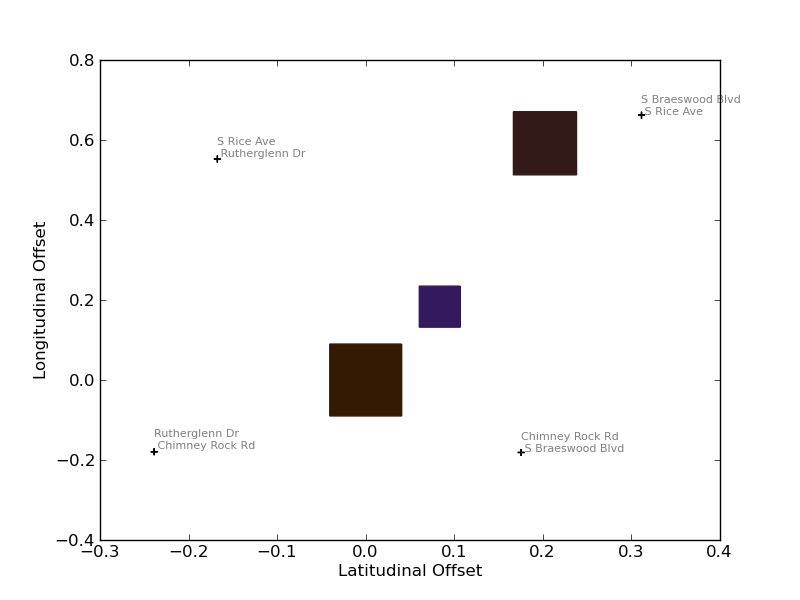
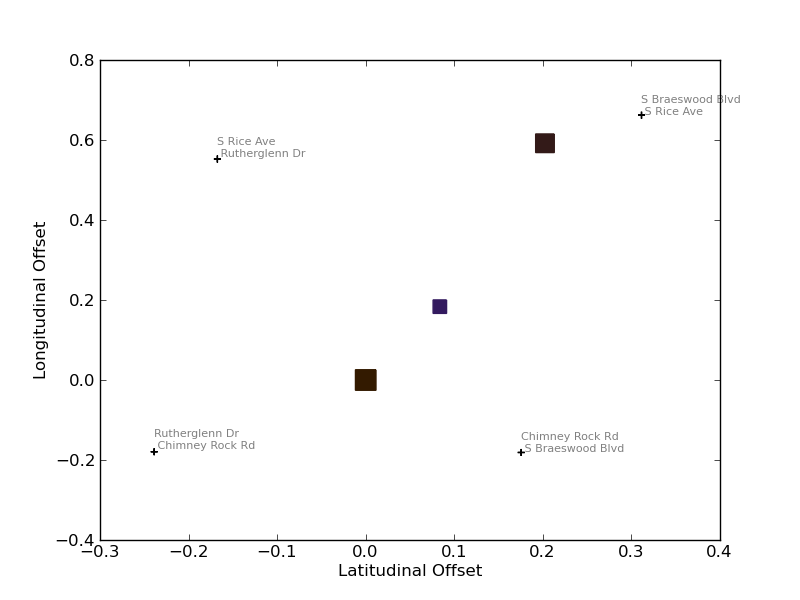
Added Histanalysis + Normalized the other 2D scatters

Changed region(s): [[0.4062, 0.57, 0.5312, 0.72], [0.625, 0.18, 0.75, 0.3], [0.5, 0.45, 0.5938, 0.57]]

diff --git a/histanalysis.py b/histanalysis.py
@@ -1,0 +1,105 @@
+from filter import Filter
+
+def analyze(filter):
+    sink = filter()
+    
+    #from mpl_toolkits.mplot3d import Axes3D
+    import matplotlib.axes, see
+    import matplotlib.pyplot as plt
+    import numpy as np
+    import random
+    from matplotlib.ticker import NullFormatter
+    
+    
+    fig = plt.figure()
+    ax=fig.add_subplot(111)
+    
+    X = []
+    Y = []
+    Z = []
+    for k in sink:
+        X += [k[0][0]]
+        Y += [k[0][1]]
+        Z += [k[1]]
+    
+    X_min = min(X)
+    X_range = max(X)-min(X)
+    X_scale = 20.0/X_range
+    
+    Y_min = min(Y)
+    Y_range = max(Y)-min(Y)
+    Y_scale = 20.0/Y_range
+    
+    Z_min = min(Y)
+    Z_range = max(Z)-min(Z)
+    Z_scale = 1.0/Z_range
+    
+    colors = []
+    for i in range(len(sink)):
+        X[i] = (X[i]-X_min)*110.83575 #* X_scale
+        Y[i] = (Y[i]-Y_min)*97.43888 #* Y_scale
+        colors.append(tuple([0.2,0.1]+[1-Z[i]/max(Z)]*1+[1]))
+    
+    z = zip(*filter.coords)
+    coords = zip( (np.array(z[0])-X_min)*110.83575, (np.array(z[1])-Y_min)*97.43888)
+
+    X = np.array(X)
+    Y = np.array(Y)
+    Z = np.array(Z)
+    
+    x,y = X,Y
+    
+    nullfmt   = NullFormatter()         # no labels
+
+    # definitions for the axes
+    left, width = 0.1, 0.65
+    bottom, height = 0.1, 0.65
+    bottom_h = left_h = left+width+0.02
+    
+    rect_scatter = [left, bottom, width, height]
+    rect_histx = [left, bottom_h, width, 0.2]
+    rect_histy = [left_h, bottom, 0.2, height]
+    
+    # start with a rectangular Figure
+    plt.figure(1, figsize=(8,8))
+    
+    axScatter = plt.axes(rect_scatter)
+    axHistx = plt.axes(rect_histx)
+    axHisty = plt.axes(rect_histy)
+    
+    # no labels
+    axHistx.xaxis.set_major_formatter(nullfmt)
+    axHisty.yaxis.set_major_formatter(nullfmt)
+    
+    # the scatter plot:
+    axScatter.scatter(x, y, marker = 's', color=colors, s = ((Z-Z_min)*Z_scale)**3*5)# color = [['r','b','y'][random.randint(0,2)] for i in range(len(sink))])
+    
+    # now determine nice limits by hand:
+    binwidth = 0.25
+    xymax = np.max( [np.max(np.fabs(x)), np.max(np.fabs(y))] )
+    lim = ( int(xymax/binwidth) + 1) * binwidth
+    
+    axScatter.set_xlim( (0, lim) )
+    axScatter.set_ylim( (0, lim) )
+    
+    bins = np.arange(-lim, lim + binwidth, binwidth)
+    axHistx.hist(x, bins=bins)
+    axHisty.hist(y, bins=bins, orientation='horizontal')
+    
+    axHistx.set_xlim( axScatter.get_xlim() )
+    axHisty.set_ylim( axScatter.get_ylim() )
+
+    
+    ax.set_xlabel('Latitudinal Offset')
+    ax.set_ylabel('Longitudinal Offset')
+    
+    return plt
+
+if __name__ == "__main__":
+    import sys
+    if len(sys.argv) < 2:
+        print "Usage: histanalysis.py <file> <street1> <street2> <street3> ..."
+        sys.exit(1)
+    plt = analyze(Filter(*sys.argv[1:]))
+    plt.savefig("results/data.hist."+(".".join(sys.argv[2:])).replace(" ","_")+".png")
+    print "0"

diff --git a/batch.py b/batch.py
@@ -42,9 +42,9 @@ addrs += [("77096.csv", "Chimney Rock Rd", "S Braeswood Blvd", "S Rice Ave", "Ru
 ]
 addrs +=  [("77081.csv","Renwick Dr","Bellaire Blvd","Chimney Rock Rd","Beechnut St"),
         ]
-addrs = [("77401.csv","Newcastle St","Bellaire Blvd","Stella Link Rd","Braeswood Blvd", "Beechnut St")]
+addrs += [("77401.csv","Newcastle St","Bellaire Blvd","Stella Link Rd","Braeswood Blvd", "Beechnut St")]
 
-addrs = [("77401.csv","W Loop Fwy","Bellaire Blvd","Newcastle St","Beechnut St")]
+addrs += [("77401.csv","W Loop Fwy","Bellaire Blvd","Newcastle St","Beechnut St")]
 
 if __name__ == "__main__":
     from see import see
@@ -64,13 +64,13 @@ if __name__ == "__main__":
             pass #Success
         else:
             print "\tAnalysis Failed"
-            #print o
             if o[1]:
                 er = ""
                 for i in o[1].split("\n"):
                     print "\t"+i
             pass #Failure
         Popen(["python", "nomarkanalysis.py"]+list(arg), stdout=PIPE, stderr = PIPE).communicate()
+        Popen(["python", "histanalysis.py"]+list(arg), stdout=PIPE, stderr = PIPE).communicate()
         Popen(["python", "contour3danalysis.py"]+list(arg), stdout=PIPE, stderr = PIPE).communicate()
         Popen(["python", "surface3danalysis.py"]+list(arg), stdout=PIPE, stderr = PIPE).communicate()
         Popen(["python", "scatter3danalysis.py"]+list(arg), stdout=PIPE, stderr = PIPE).communicate()

diff --git a/nomarkanalysis.py b/nomarkanalysis.py
@@ -46,7 +46,7 @@ def analyze(filter):
     Y = np.array(Y)
     Z = np.array(Z)
     
-    ax.scatter(X, Y, marker = 's', color=colors, s = ((Z-Z_min)*Z_scale)**4*15)# color = [['r','b','y'][random.randint(0,2)] for i in range(len(sink))])
+    ax.scatter(X, Y, marker = 's', color=colors, s = ((Z-Z_min)*Z_scale)**3*5)# color = [['r','b','y'][random.randint(0,2)] for i in range(len(sink))])
     #ax.scatter(*zip(*coords), marker = '+')
     
     #for i in range(len(filter.intersections)):

diff --git a/analyze.py b/analyze.py
@@ -45,7 +45,7 @@ def analyze(filter):
     Y = np.array(Y)
     Z = np.array(Z)
     
-    ax.scatter(X, Y, marker = 's', color=colors, s = ((Z-Z_min)*Z_scale)**4*15)# color = [['r','b','y'][random.randint(0,2)] for i in range(len(sink))])
+    ax.scatter(X, Y, marker = 's', color=colors, s = ((Z-Z_min)*Z_scale)**3*5)# color = [['r','b','y'][random.randint(0,2)] for i in range(len(sink))])
     ax.scatter(*zip(*coords), marker = '+')
     
     for i in range(len(filter.intersections)):
